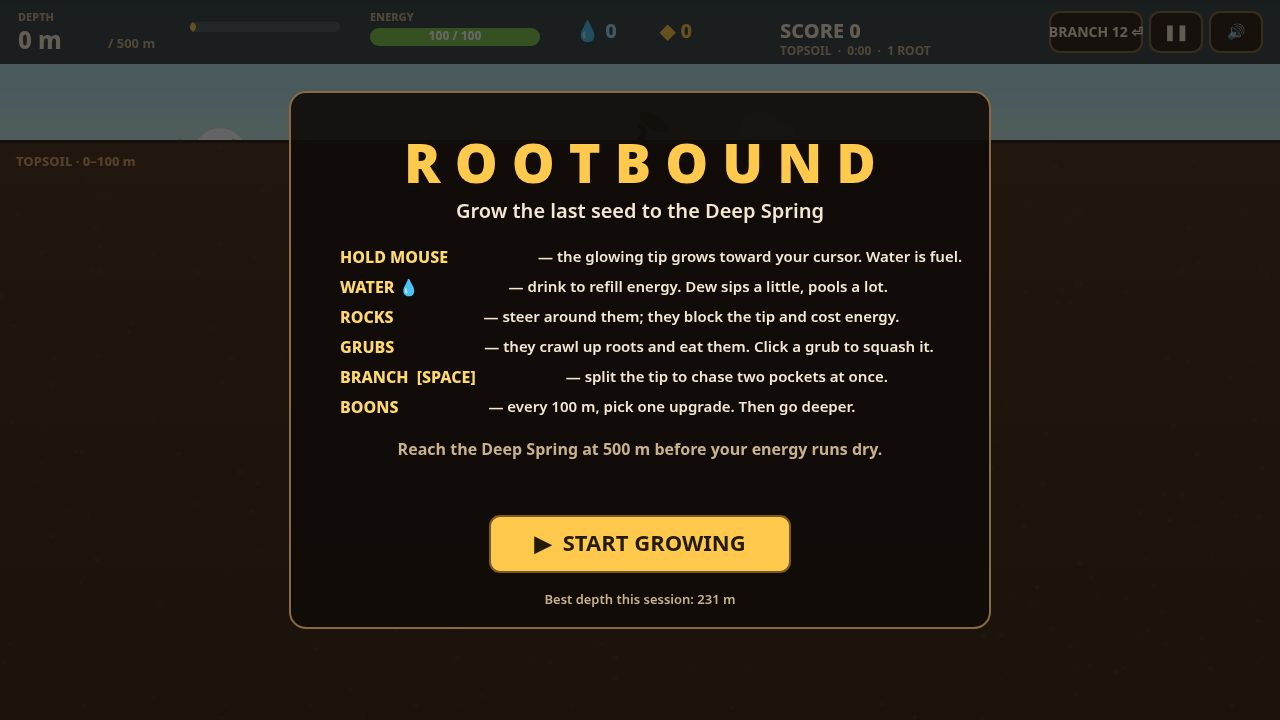
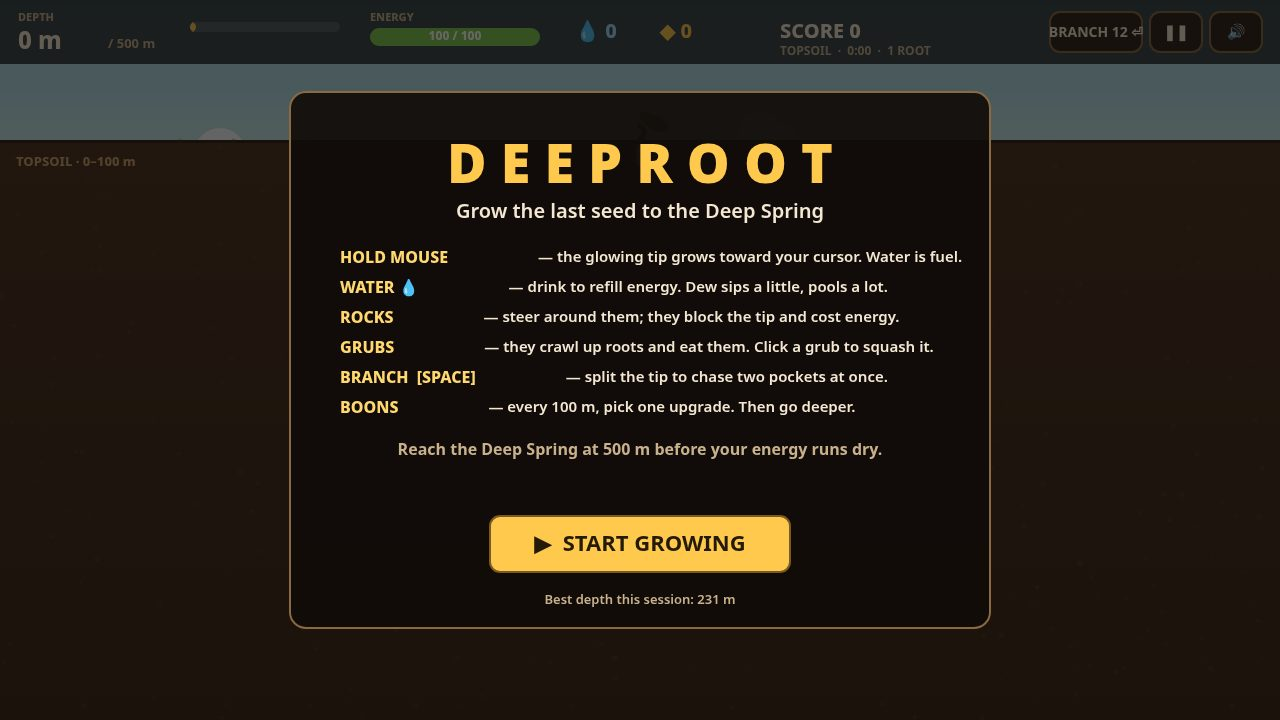
Rename game to DEEPROOT (title was shared by 5 leaderboard entries); retake screenshots

Changed region(s): [[0.3125, 0.1833, 0.6875, 0.275]]

diff --git a/game/src/render.js b/game/src/render.js
@@ -1,4 +1,4 @@
-// ROOTBOUND — everything the player sees, drawn on one canvas.
+// DEEPROOT — everything the player sees, drawn on one canvas.
 // One job: paint the soil, the roots, the creatures, the HUD and every menu.
 
 import {
@@ -363,7 +363,7 @@ function panel(ctx, x, y, w, h) {
 function drawTitle(ctx, g) {
   dim(ctx);
   panel(ctx, 290, 92, 700, 536);
-  text(ctx, 'R O O T B O U N D', 640, 168, 54, PALETTE.accent, 'center', 900);
+  text(ctx, 'D E E P R O O T', 640, 168, 54, PALETTE.accent, 'center', 900);
   text(ctx, 'Grow the last seed to the Deep Spring', 640, 212, 20, PALETTE.text, 'center', 600);
   const lines = [
     ['HOLD MOUSE', '— the glowing tip grows toward your cursor. Water is fuel.'],

diff --git a/main.ts b/main.ts
@@ -1,4 +1,4 @@
-// ROOTBOUND — the entry program (Node 22, standard library only).
+// DEEPROOT — the entry program (Node 22, standard library only).
 //
 // What it does: it hands the game in. It copies this repository's game/
 // (the playable static files) and screenshots/ (the four staged renders)
@@ -57,4 +57,4 @@ cpSync(shotsDir, join(outDir, 'screenshots'), { recursive: true });
 const dossier = buildDossier(outDir, dossierCaps);
 writeFileSync(join(outDir, 'dossier.json'), dossier);
 
-console.log(`ROOTBOUND handed in: ${shots.length} screenshots, dossier ${dossier.length} bytes -> ${outDir}`);
+console.log(`DEEPROOT handed in: ${shots.length} screenshots, dossier ${dossier.length} bytes -> ${outDir}`);

diff --git a/serve.ts b/serve.ts
@@ -1,4 +1,4 @@
-// ROOTBOUND — local static server for play-testing (development only).
+// DEEPROOT — local static server for play-testing (development only).
 // Serves game/ at http://localhost:8080, exactly as a static file server
 // would; the game makes no network requests of its own.
 
@@ -31,4 +31,4 @@ const server = createServer((req, res) => {
 });
 
 const port = Number(process.env.PORT ?? 8080);
-server.listen(port, () => console.log(`ROOTBOUND at http://localhost:${port}`));
+server.listen(port, () => console.log(`DEEPROOT at http://localhost:${port}`));

diff --git a/game/src/main.js b/game/src/main.js
@@ -1,4 +1,4 @@
-// ROOTBOUND — bootstrap: canvas, input, game loop, screenshot staging.
+// DEEPROOT — bootstrap: canvas, input, game loop, screenshot staging.
 // One job: wire the modules together and run requestAnimationFrame.
 
 import { VIEW_W, VIEW_H } from './config.js';
@@ -20,7 +20,7 @@ const input = createInput(canvas, {
 const game = createGame(canvas, input);
 
 // Expose the game for debugging and for the screenshot/autopilot harness.
-window.__rootbound = game;
+window.__deeproot = game;
 
 if (shot === 'boon') {
   stageBoon(game);

diff --git a/game/index.html b/game/index.html
@@ -4,7 +4,7 @@
 <meta charset="utf-8">
 <meta name="viewport" content="width=device-width, initial-scale=1">
 <link rel="icon" href="data:,">
-<title>ROOTBOUND — Grow the Last Seed to the Deep Spring</title>
+<title>DEEPROOT — Grow the Last Seed to the Deep Spring</title>
 <style>
   html, body { margin: 0; padding: 0; background: #171008; height: 100%; overflow: hidden; }
   body { display: flex; align-items: center; justify-content: center; }

diff --git a/game/src/world.js b/game/src/world.js
@@ -1,4 +1,4 @@
-// ROOTBOUND — the underground world: layers, rocks, water, dew, nutrients, grubs.
+// DEEPROOT — the underground world: layers, rocks, water, dew, nutrients, grubs.
 // One job: generate the soil deterministically from a seed and answer spatial queries.
 
 import { LAYERS, WORLD_W, WORLD_DEPTH_PX, SEED_X } from './config.js';

diff --git a/game/src/shots.js b/game/src/shots.js
@@ -1,4 +1,4 @@
-// ROOTBOUND — deterministic screenshot staging via ?shot=.
+// DEEPROOT — deterministic screenshot staging via ?shot=.
 // One job: build a fixed, readable scene for each of the four screenshots.
 // The game is frozen afterwards: no simulation, no input, just the staged frame.
 

diff --git a/game/src/roots.js b/game/src/roots.js
@@ -1,4 +1,4 @@
-// ROOTBOUND — the root system: tips, growth, branching, grub damage.
+// DEEPROOT — the root system: tips, growth, branching, grub damage.
 // One job: own every root's points and let the game grow, split and prune them.
 
 import { SEED_X, SEED_Y } from './config.js';

diff --git a/game/src/game.js b/game/src/game.js
@@ -1,4 +1,4 @@
-// ROOTBOUND — the game itself: state machine, growth, pickups, grubs, boons, win/loss.
+// DEEPROOT — the game itself: state machine, growth, pickups, grubs, boons, win/loss.
 // One job: turn input + world + roots into a complete, winnable game.
 
 import {

diff --git a/game/src/config.js b/game/src/config.js
@@ -1,4 +1,4 @@
-// ROOTBOUND — configuration: every tunable number of the game lives here.
+// DEEPROOT — configuration: every tunable number of the game lives here.
 // One job: constants, the five soil layers, the six boons, the palette.
 
 export const VIEW_W = 1280;

diff --git a/game/src/random.js b/game/src/random.js
@@ -1,4 +1,4 @@
-// ROOTBOUND — deterministic random numbers (mulberry32).
+// DEEPROOT — deterministic random numbers (mulberry32).
 // One job: a seedable RNG so world generation and screenshot staging repeat exactly.
 
 export function mulberry32(seed) {

diff --git a/game/src/input.js b/game/src/input.js
@@ -1,4 +1,4 @@
-// ROOTBOUND — keyboard and pointer input.
+// DEEPROOT — keyboard and pointer input.
 // One job: track the pointer, held keys and clicks, and translate screen to world coords.
 
 export function createInput(canvas, hooks) {
